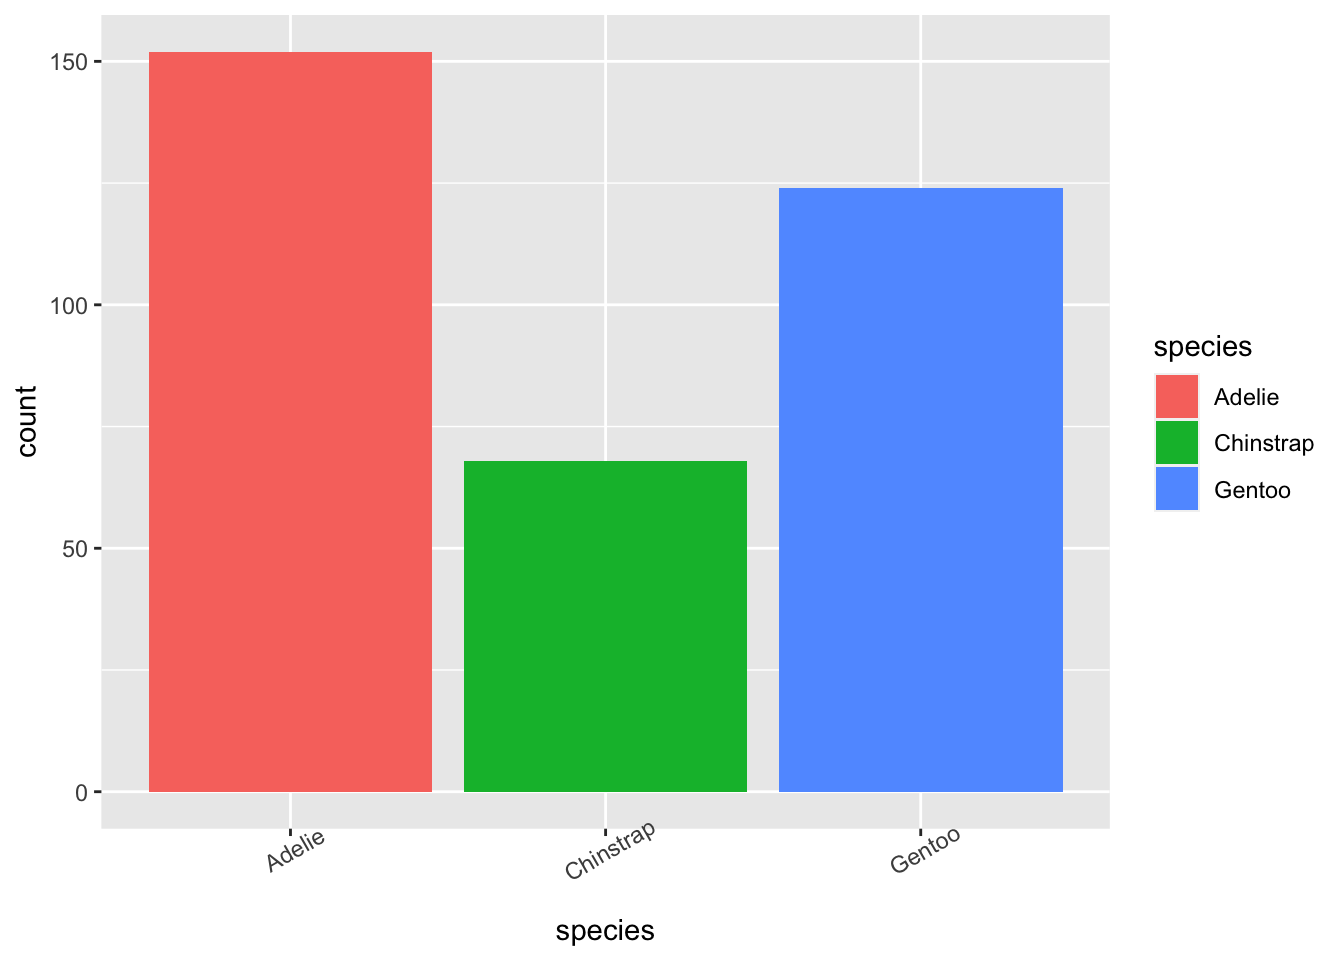
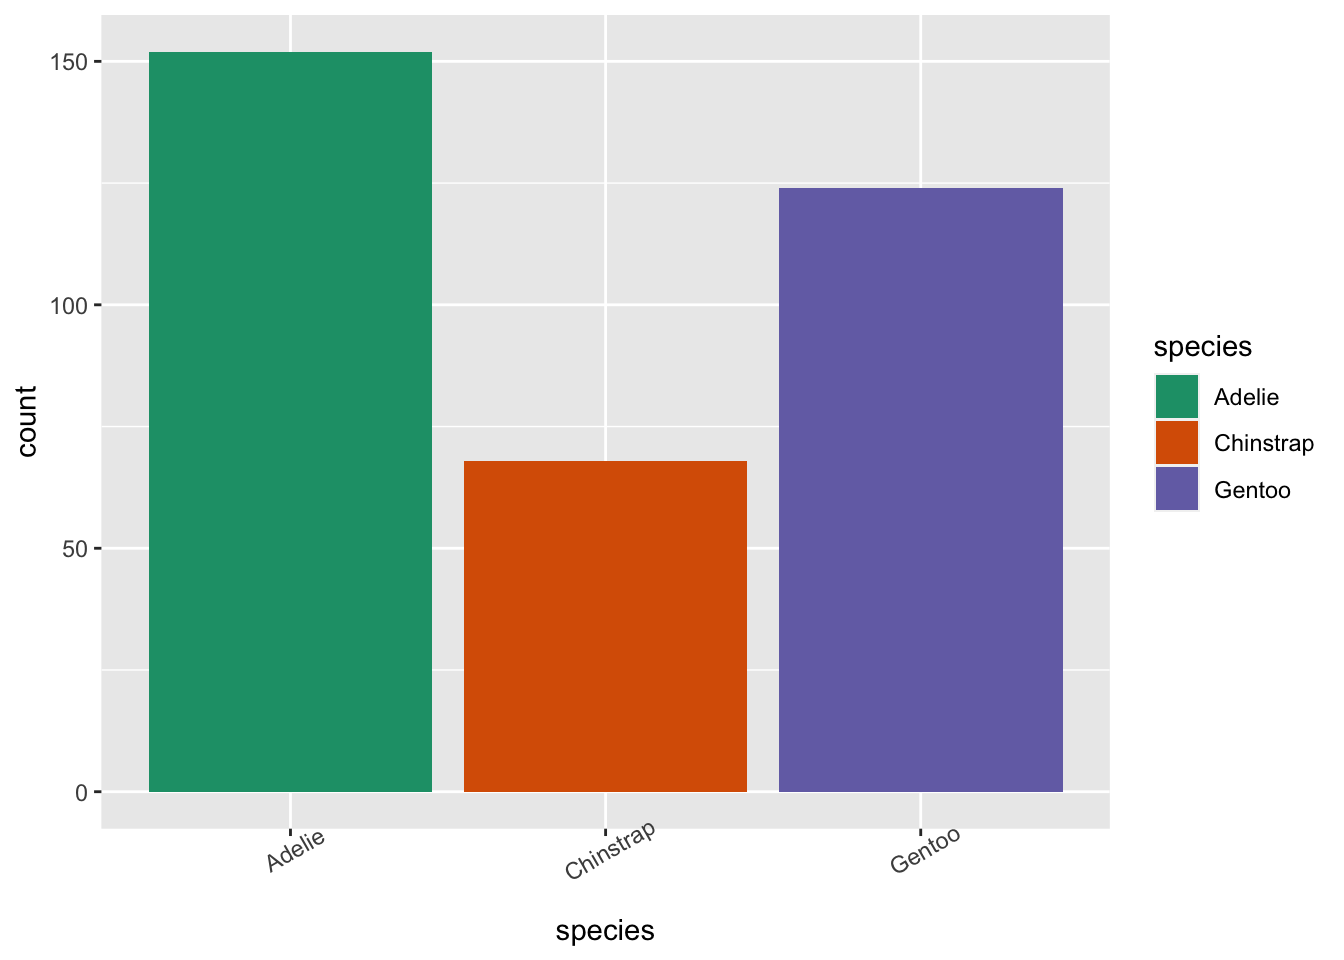
updated

diff --git a/content/post/plotaxis.html b/content/post/plotaxis.html
@@ -32,6 +32,7 @@ african_names %&gt;%
 <pre class="r"><code>library(palmerpenguins)
 penguins %&gt;%
   ggplot(aes(x=species, fill=species)) + geom_bar() +
+  scale_fill_manual(values=c(&quot;#1b9e77&quot;, &quot;#d95f02&quot;, &quot;#7570b3&quot;)) + 
   theme(axis.text.x=element_text(angle=30))</code></pre>
 <p><img src="/post/plotaxis_files/figure-html/unnamed-chunk-2-1.png" width="672" /></p>
 <p><strong>Angles, horizontal justification and vertical justification</strong></p>
